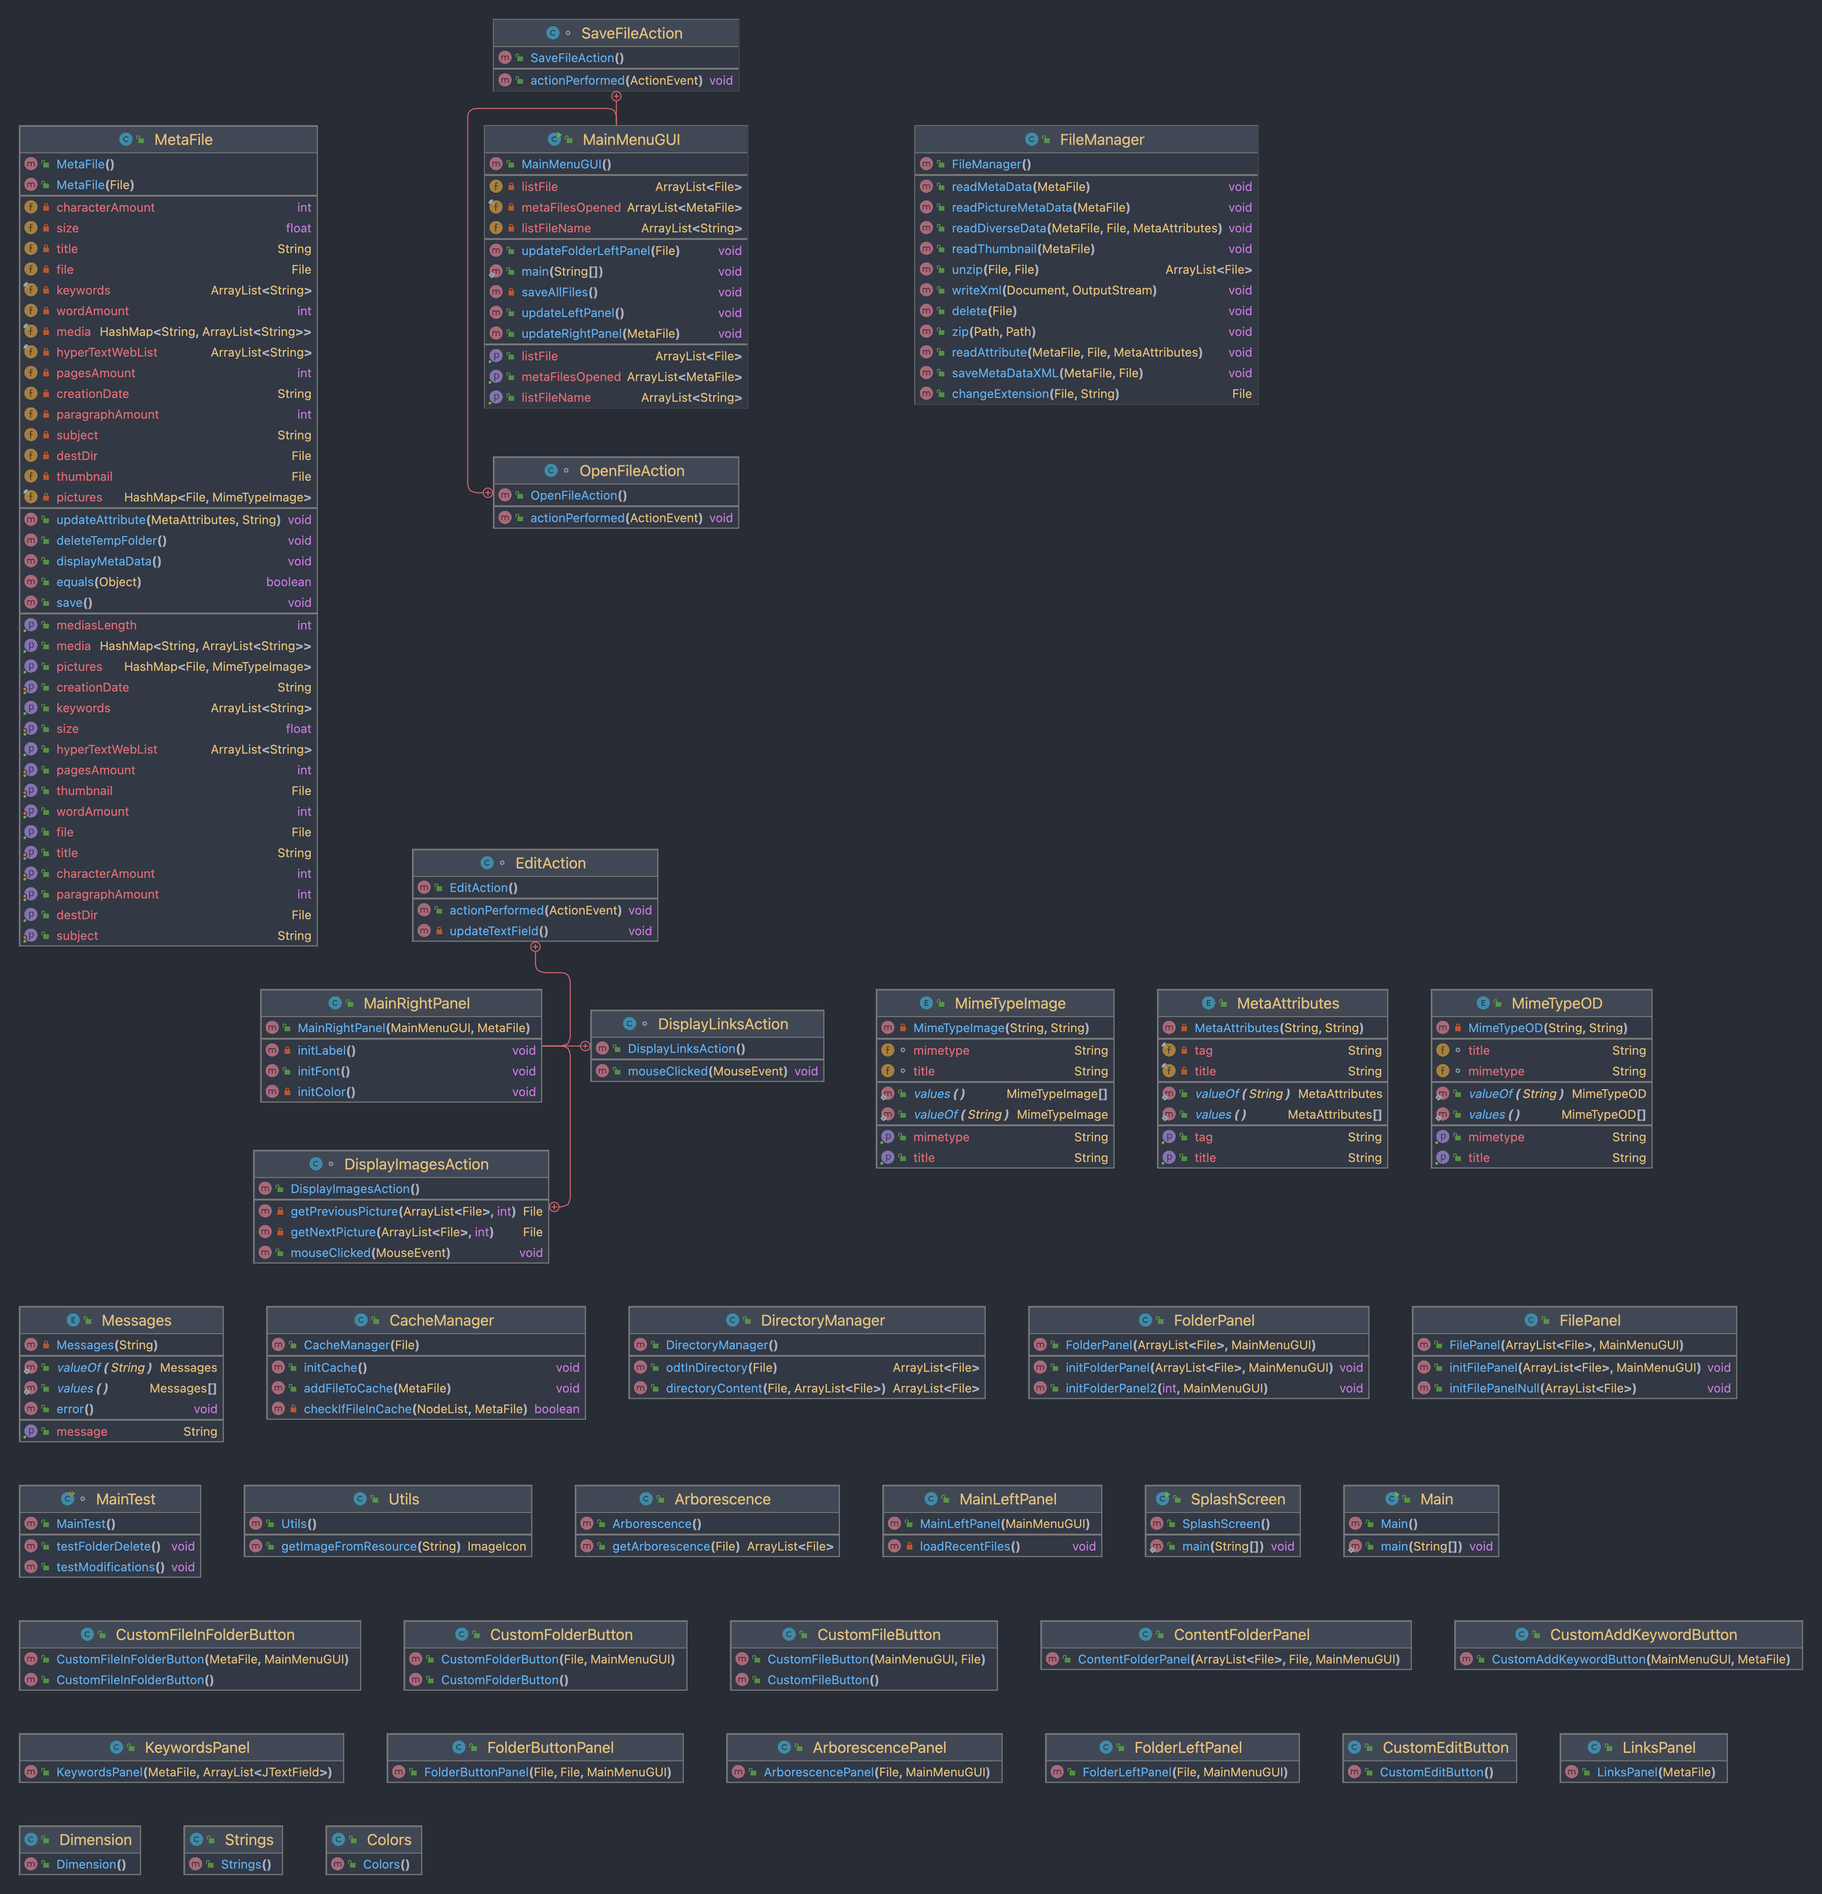
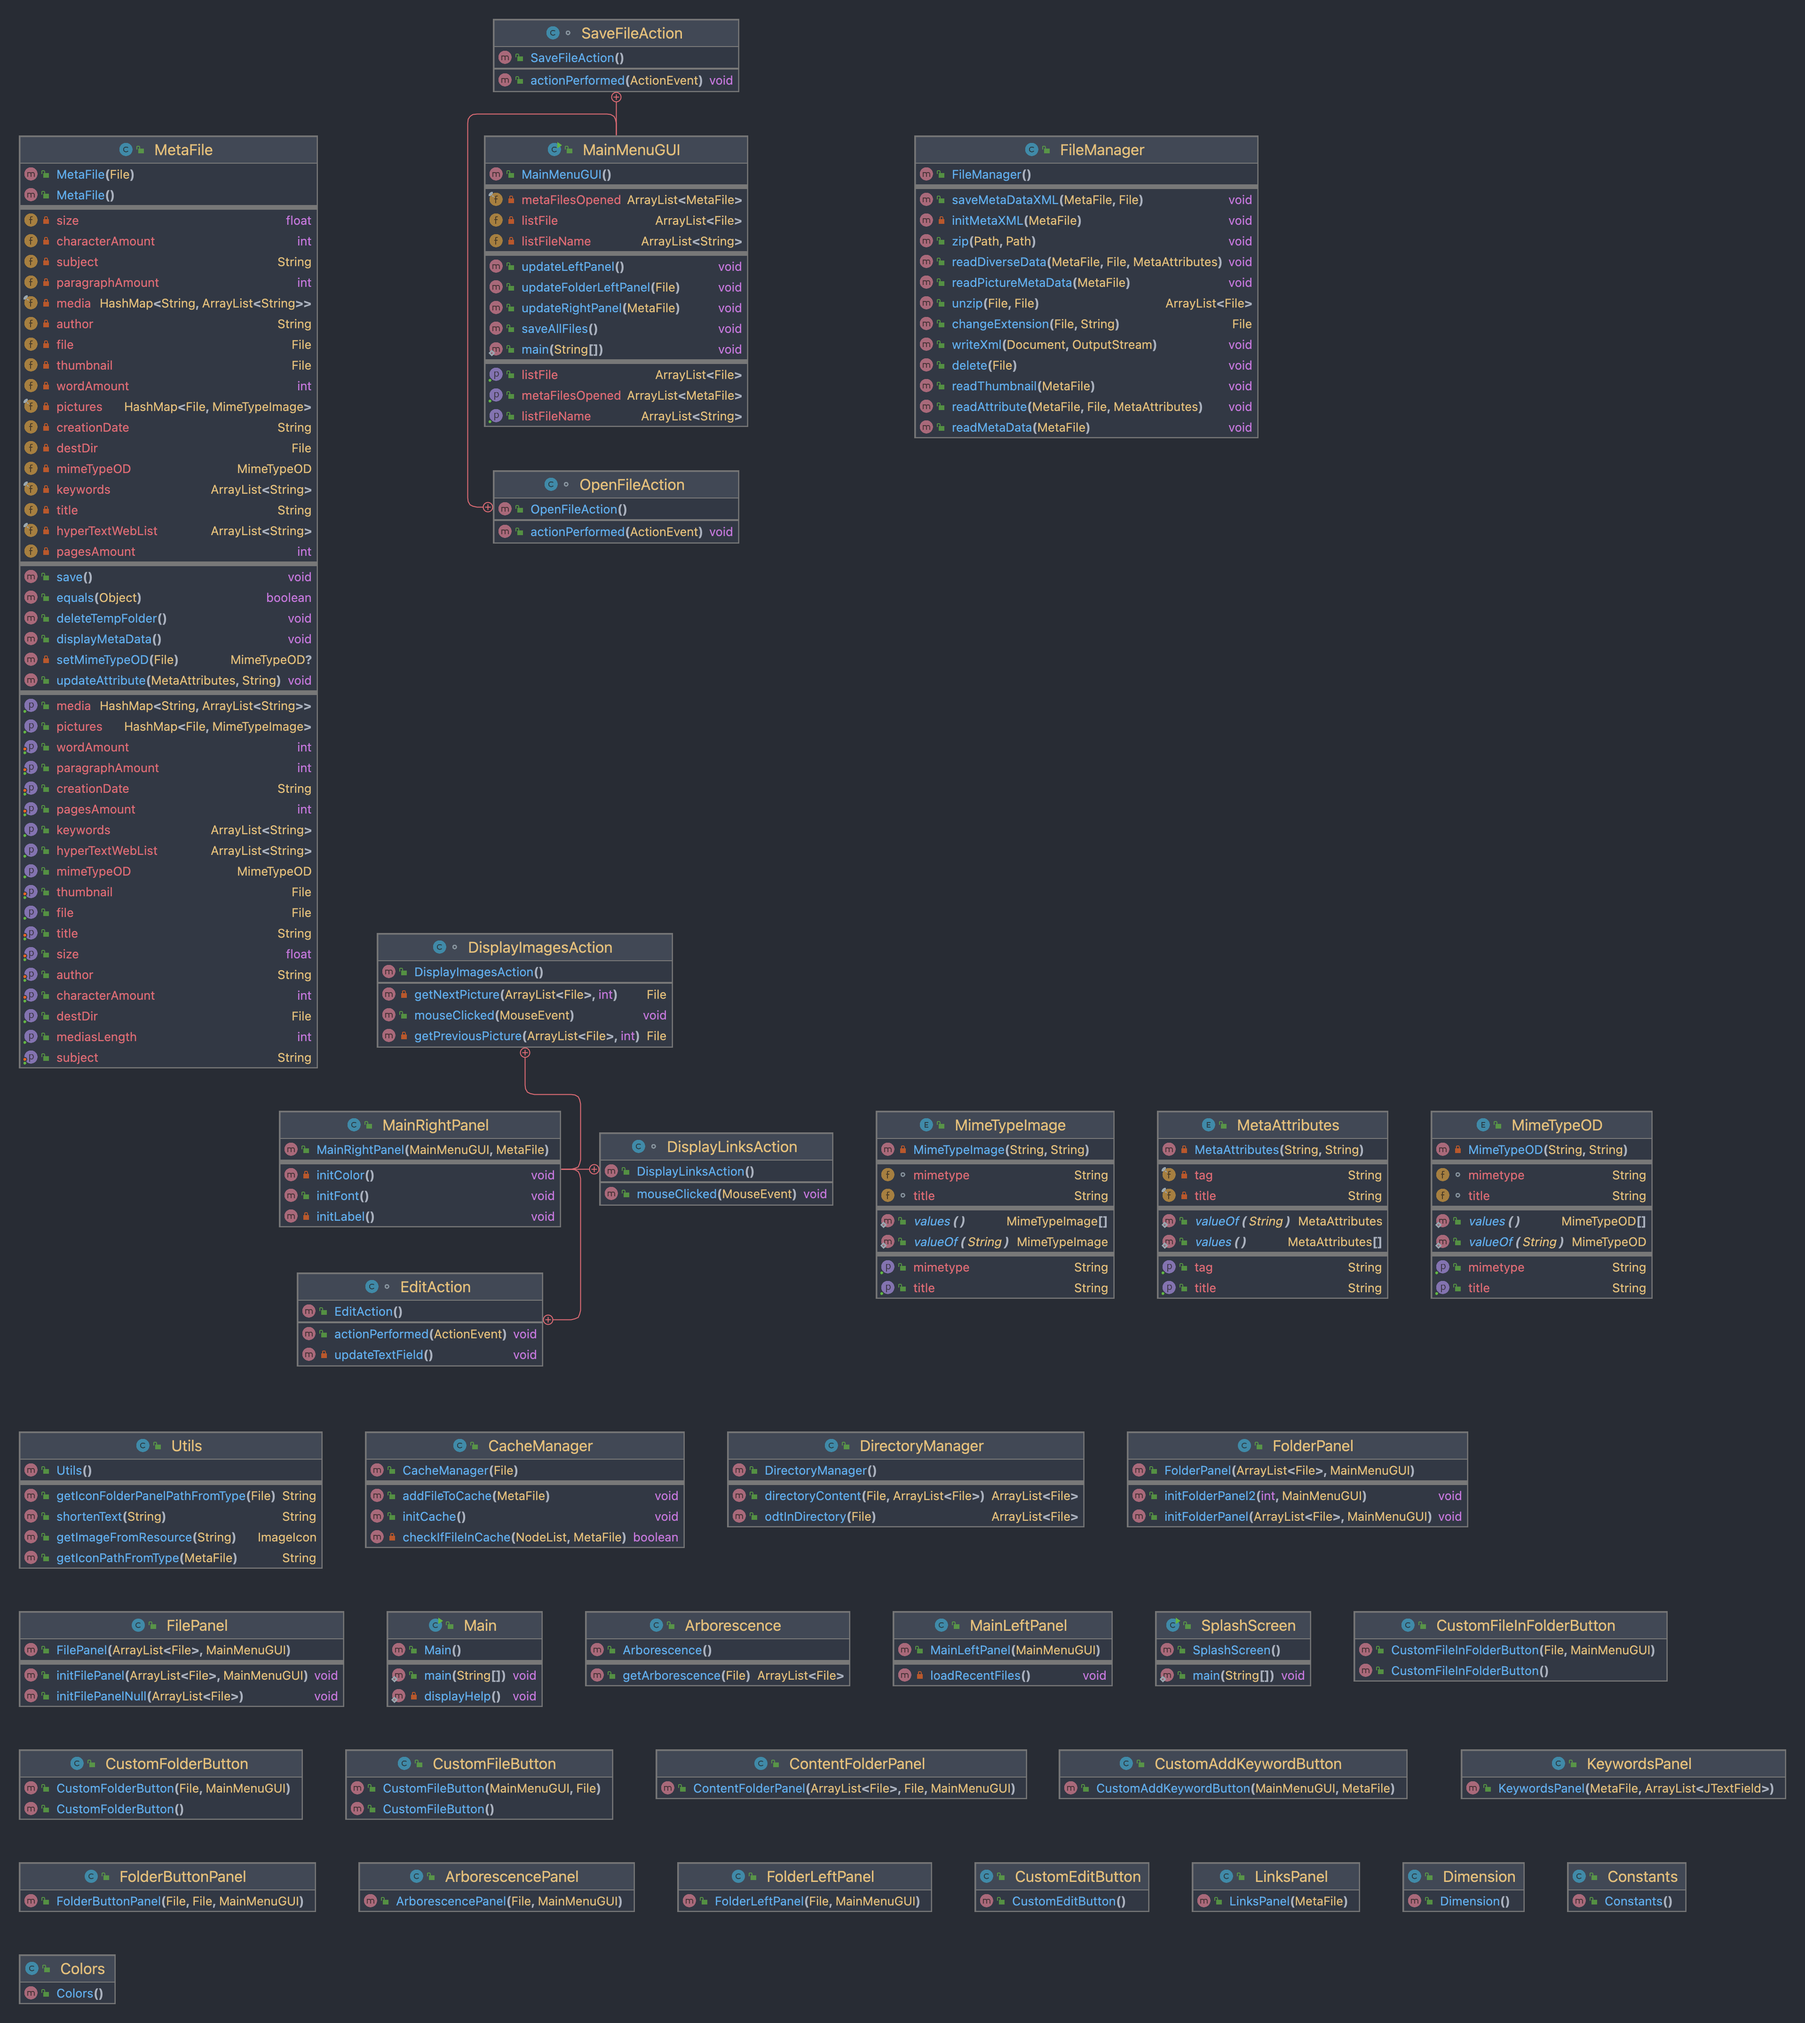
Comments update

Changed region(s): [[0.0, 0.0621, 0.9922, 0.9935], [0.248, 0.0, 0.4341, 0.2794], [0.4961, 0.0621, 0.7131, 0.2173]]

diff --git a/src/fr/r34/metagg/manager/FileManager.java b/src/fr/r34/metagg/manager/FileManager.java
@@ -1,6 +1,9 @@
 package fr.r34.metagg.manager;
 
 import fr.r34.metagg.*;
+import org.apache.poi.xwpf.usermodel.*;
+import org.openxmlformats.schemas.wordprocessingml.x2006.main.CTR;
+import org.openxmlformats.schemas.wordprocessingml.x2006.main.CTRPr;
 import org.w3c.dom.Document;
 import org.w3c.dom.Element;
 import org.w3c.dom.Node;
@@ -21,6 +24,7 @@ import java.nio.file.attribute.BasicFileAttributes;
 import java.text.DecimalFormat;
 import java.text.ParseException;
 import java.util.ArrayList;
+import java.util.List;
 import java.util.zip.ZipEntry;
 import java.util.zip.ZipInputStream;
 import java.util.zip.ZipOutputStream;

diff --git a/src/fr/r34/metagg/gui/panels/openfolder/ContentFolderPanel.java b/src/fr/r34/metagg/gui/panels/openfolder/ContentFolderPanel.java
@@ -28,7 +28,7 @@ public class ContentFolderPanel extends JPanel {
      *
      * @param folderContent     Liste des fichiers ODT présents dans le dossier ouvert par l'utilisateur.
      * @param folder            Dossier choisit et ouvert par l'utilisateur.
-     * @param main              Instance de la Frame principale "FolderMenuGUI"
+     * @param main              Instance de la Frame principale "MainMenuGUI"
      * @throws IOException
      */
     public ContentFolderPanel(ArrayList<File> folderContent, File folder, MainMenuGUI main) throws IOException {

diff --git a/src/fr/r34/metagg/gui/panels/openfolder/FolderLeftPanel.java b/src/fr/r34/metagg/gui/panels/openfolder/FolderLeftPanel.java
@@ -40,7 +40,7 @@ public class FolderLeftPanel extends JPanel {
      * La partie fichier du dossier fait uniquement appel à la classe ContentFolderPanel.
      *
      * @param folder    Dossier choisit et ouvert par l'utilisateur pour parcours ses différents sous-dossiers et fichiers ODT.
-     * @param main      Instance de la Frame principale FolderMenuGUI.
+     * @param main      Instance de la Frame principale MainMenuGUI.
      * @throws IOException
      */
     public FolderLeftPanel(File folder, MainMenuGUI main) throws IOException {

diff --git a/src/fr/r34/metagg/gui/panels/openfolder/FilePanel.java b/src/fr/r34/metagg/gui/panels/openfolder/FilePanel.java
@@ -29,7 +29,7 @@ public class FilePanel extends JPanel {
      * strcuture identique à si la taille de la liste était supérieur à 4.
      *
      * @param folderContent     Liste des fichiers ODT présent dans le dossier sélectionné
-     * @param main              Instance de la Frame principale FolderMenuGUI
+     * @param main              Instance de la Frame principale MainMenuGUI
      * @throws IOException
      */
     public FilePanel(ArrayList<File> folderContent, MainMenuGUI main) throws IOException {

diff --git a/src/fr/r34/metagg/gui/panels/openfolder/FolderPanel.java b/src/fr/r34/metagg/gui/panels/openfolder/FolderPanel.java
@@ -30,7 +30,7 @@ public class FolderPanel extends JPanel {
      * à cette liste pour garder un nombre de CustomFolderButton paire à l'affichage.
      *
      * @param folderContent Liste des fichiers ODT présent dans le dossier sélectionné
-     * @param main Instance de la Frame principale FolderMenuGUI
+     * @param main Instance de la Frame principale MainMenuGUI
      * @throws IOException
      */
     public FolderPanel(ArrayList<File> folderContent, MainMenuGUI main) throws IOException {

diff --git a/src/fr/r34/metagg/gui/panels/openfolder/FolderButtonPanel.java b/src/fr/r34/metagg/gui/panels/openfolder/FolderButtonPanel.java
@@ -25,7 +25,7 @@ public class FolderButtonPanel extends JPanel {
      *
      * @param folder    Dossier que l'on veut lier au bouton
      * @param folder2   Dossier que l'on veut lier au bouton
-     * @param main      Instance de la Frame principale FolderMenuGUI
+     * @param main      Instance de la Frame principale MainMenuGUI
      * @throws IOException
      */
     public FolderButtonPanel(File folder, File folder2, MainMenuGUI main) throws IOException {

diff --git a/src/fr/r34/metagg/MimeTypeOD.java b/src/fr/r34/metagg/MimeTypeOD.java
@@ -1,6 +1,6 @@
 package fr.r34.metagg;
 
-public enum MimeTypeOD {
+public enum MimeTypeOD implements MimeType {
 
     ODT("application/vnd.oasis.opendocument.text", "ODT"),
     ODS("application/vnd.oasis.opendocument.spreadsheet", "ODS"),

diff --git a/src/fr/r34/metagg/MimeTypeImage.java b/src/fr/r34/metagg/MimeTypeImage.java
@@ -1,6 +1,6 @@
 package fr.r34.metagg;
 
-public enum MimeTypeImage {
+public enum MimeTypeImage implements MimeType {
     AVIF("image/avif", "AVIF"),
     BMP("image/bmp", "BMP"),
     GIF("image/gif", "GIF"),

diff --git a/src/fr/r34/metagg/MimeType.java b/src/fr/r34/metagg/MimeType.java
@@ -1,0 +1,8 @@
+package fr.r34.metagg;
+
+public interface MimeType {
+
+    public String getTitle();
+    public String getMimetype();
+
+}
